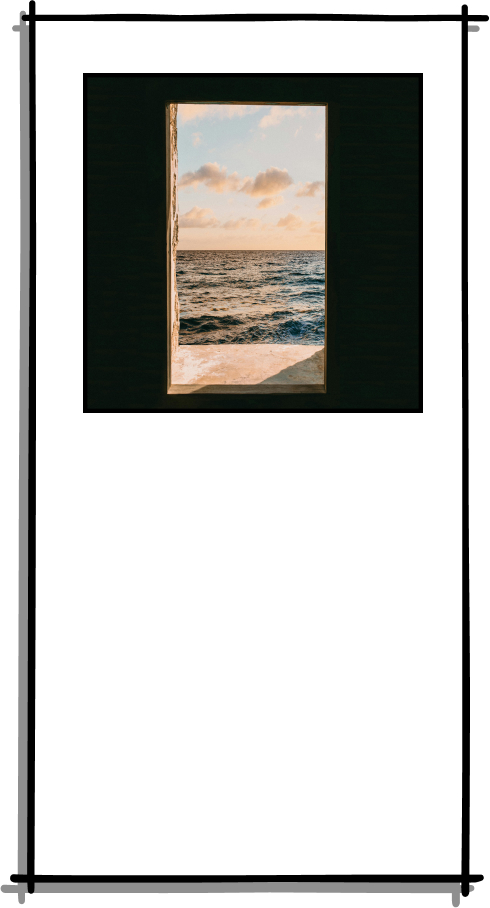
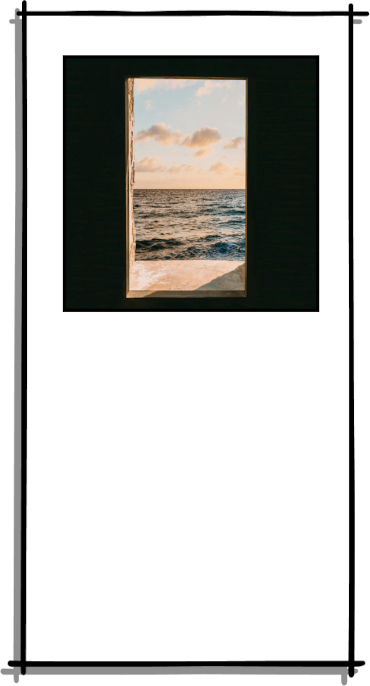
quadros responsivos

Changed region(s): [[0.9514, 0.0, 0.9811, 0.0306], [0.0595, 0.0, 0.0892, 0.0306]]

diff --git a/index.html b/index.html
@@ -29,11 +29,15 @@
 
 
     <main>
-        <div>
-            <h1>Bem vindo ao meu portfólio, eu sou desenvolvedora Front End</h1>
-        </div>
+     
         <div class="capa">
-        <img src="imagens/figma/perfil.jpg" alt="">
+            <picture class="fport">
+                <source media="(max-width: 768px)" srcset="imagens/figma/perfil-cel.jpg"><img src="imagens/figma/perfil.jpg" alt="port">
+            </picture>
+
+            <div>
+                <h1>Bem vindo ao meu portfólio, eu sou desenvolvedora Front End</h1>
+            </div>
             <div class="par">
  
             </div>
@@ -54,7 +58,7 @@
         <div class="proj">
       
                     <picture class="fport">
-                        <source media="(max-width: 768px)" srcset="imagens/figma/portfolio-cel-370.jpg"><img src="imagens/figma/portfolio.jpg" alt="port">
+                        <source media="(max-width: 768px)" srcset="imagens/figma/portfolio-cel.jpg"><img src="imagens/figma/portfolio.jpg" alt="port">
                     </picture>
                     <ul id="botoes01">
                         <li><a href="https://dev-miriambatista.github.io/portfolio-miriambatista/" target="_blank">Abrir projeto</a></li>
@@ -75,7 +79,7 @@
 
            
                 <picture class="flogin">
-                    <source media="(max-width: 768px)" srcset="imagens/figma/responsividade-cel.png"><img src="imagens/figma/responsividade.jpg" alt="port">
+                    <source media="(max-width: 768px)" srcset="imagens/figma/responsivo-cel.jpg"><img src="imagens/figma/responsivo.jpg" alt="port">
                 </picture>
 
                 <ul class="botoes">

diff --git a/resp.css b/resp.css
@@ -14,7 +14,6 @@
         display: inline-grid;
         grid-template-columns: 50vw 50vw;
         grid-template-rows: 10vh;
-       
         justify-content: space-between;
     }
     
@@ -183,9 +182,7 @@
         margin-bottom: 15%;
     }
     .fport,.flogin, .fsocial, .fcordel,.fandroid {
-        width: auto;
-        padding: 10vw;
-        
+        width: auto;        
         border-style:hidden;
         }
     #portfolio,  #login, #rede-social, #cordel-moderno,#android{
